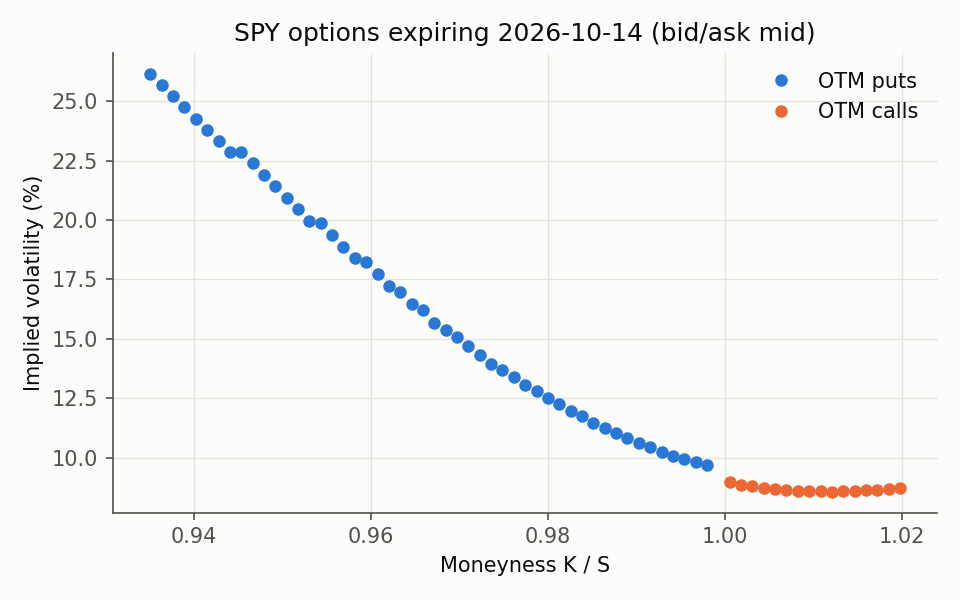
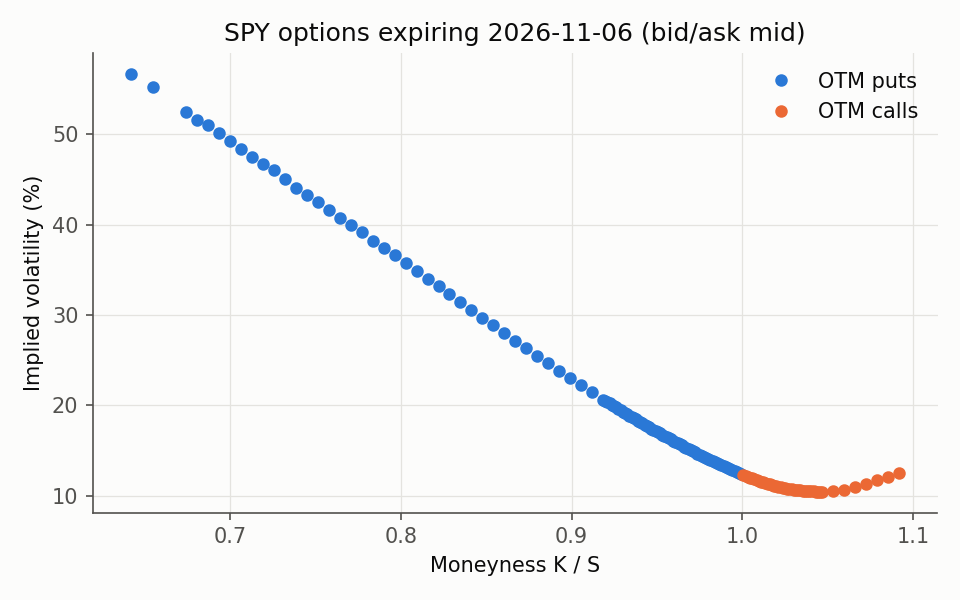
Use dynamic expiry date + update readme

diff --git a/derivlib/market_data.py b/derivlib/market_data.py
@@ -18,7 +18,8 @@ def load_chain(ticker: str = "SPY", expiry_index: int = 2):
     import yfinance as yf
 
     tk = yf.Ticker(ticker)
-    expiry = tk.options[expiry_index]
+    today = datetime.now(timezone.utc).date()
+    expiry = min(tk.options, key=lambda e: abs((datetime.strptime(e, "%Y-%m-%d").date() - today).days - 30))
     oc = tk.option_chain(expiry)
     spot = float(tk.history(period="1d")["Close"].iloc[-1])
 

diff --git a/README.md b/README.md
@@ -104,10 +104,12 @@ Implementation notes:
 
 ![IV smile](figures/iv_smile.png)
 
-Newton–Raphson using vega, with a Brent bracketing fallback when vega is tiny. It
-rejects prices that violate no-arbitrage bounds. On a synthetic chain with known
-skew, recovered vols match to 8e-10. Run with `--ticker SPY` to fit the smile to a
-live chain (out-of-the-money puts below spot, calls above, bid/ask mid prices).
+Newton–Raphson using vega, with a Brent bracketing fallback when vega is tiny; prices that
+violate no-arbitrage bounds are rejected. Fitted to a live SPY option chain (out-of-the-money
+puts below spot, calls above, bid/ask mids), the smile shows the classic equity skew:
+implied vol rises from about 9% just above spot to about 26% for strikes 6% below, the market
+pricing crash risk that Black–Scholes' constant volatility ignores. On a synthetic chain with
+known skew, recovered vols match the true ones to 1e-9.
 
 ### 5. Delta hedging
 

diff --git a/figures/results.md b/figures/results.md
@@ -26,7 +26,7 @@ Control variate cuts the standard error 36x, equivalent to 1,312x more paths.
 | 1600 | 0.25 | 1.59e-04 |
 
 ## American put (S=K=100)
-PDE (Brennan–Schwartz, 800x400 grid, 0.88s): 6.0895  |  CRR tree (5000 steps): 6.0902  |  European: 5.5735  |  early-exercise premium: 0.5160
+PDE (Brennan–Schwartz, 800x400 grid, 0.67s): 6.0895  |  CRR tree (5000 steps): 6.0902  |  European: 5.5735  |  early-exercise premium: 0.5160
 
 ## Call Greeks three ways (S=K=100)
 | Greek | Analytic | Bump (on BS) | Bump (on MC, common random numbers) | Pathwise MC |
